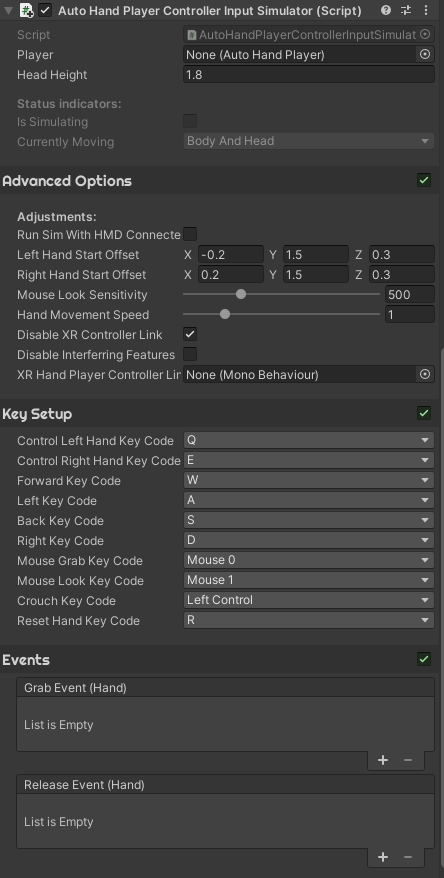
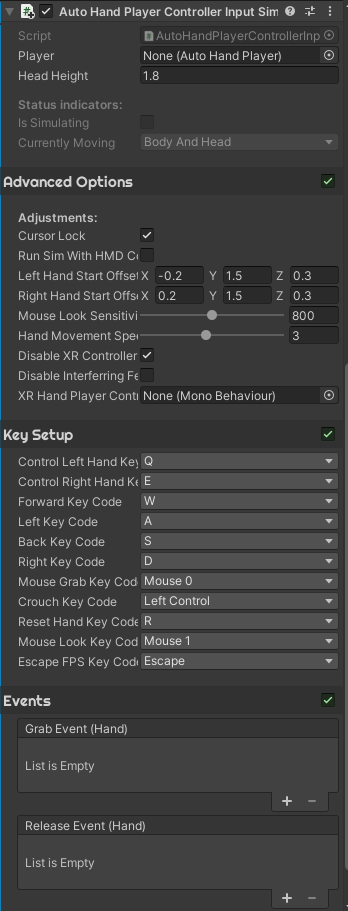
Changed default control mode
- Changed the default control mode to lock the cursor to the game view until either: ESC is pressed or the mouseLookKey is pressed
- Added an option to disable cursor lock.

diff --git a/Assets/AutoHand/Scripts/DebugTools/AutoHandPlayerControllerInputSimulator.cs b/Assets/AutoHand/Scripts/DebugTools/AutoHandPlayerControllerInputSimulator.cs
@@ -43,15 +43,18 @@ public class AutoHandPlayerControllerInputSimulator: MonoBehaviour
     public bool ignoreMe = false;
     [Header("Adjustments:")]
     [ShowIf("ignoreMe")]
-    public bool runSimWithHMDConnected = false;
+    [Tooltip("Locks cursor to screen, escape the screen by hitting ESC-key")]
+    public bool cursorLock = true;
+    [ShowIf("ignoreMe")]
+    public bool runWithHMDConnected = false;
     [ShowIf("ignoreMe")]
     public Vector3 leftHandStartOffset = new Vector3(-.2f, 1.5f, 0.3f), rightHandStartOffset = new Vector3(.2f, 1.5f, 0.3f);
     [ShowIf("ignoreMe")]
     [Range(100f, 1500f)]
-    public float mouseLookSensitivity = 500f;
+    public float mouseLookSensitivity = 800f;
     [ShowIf("ignoreMe")]
-    [Range(0.5f, 3f)]
-    public float handMovementSpeed = 1f;
+    [Range(0.5f, 6f)]
+    public float handMovementSpeed = 3f;
     [ShowIf("ignoreMe")]
     [Tooltip("This will ensure that the regular XRHandPlayerControllerLink is disabled " +
         "and stays disabled while using this simulator. " +
@@ -65,18 +68,24 @@ public class AutoHandPlayerControllerInputSimulator: MonoBehaviour
     [SerializeField] private MonoBehaviour xRHandPlayerControllerLink;
 
     [AutoToggleHeader("Key Setup")]
-    [SerializeField] bool ignorMe2;
-    [ShowIf("ignorMe2")]
+    [SerializeField] bool ignoreMe2;
+    [ShowIf("ignoreMe2")]
     public KeyCode controlLeftHandKeyCode = KeyCode.Q,
         controlRightHandKeyCode = KeyCode.E,
         forwardKeyCode = KeyCode.W,
         leftKeyCode = KeyCode.A,
         backKeyCode = KeyCode.S,
         rightKeyCode = KeyCode.D,
-        mouseGrabKeyCode = KeyCode.Mouse0,
-        mouseLookKeyCode = KeyCode.Mouse1,
-        crouchKeyCode = KeyCode.LeftControl,
-        resetHandKeyCode = KeyCode.R;
+        mouseGrabKeyCode = KeyCode.Mouse0;
+    [ShowIf("ignoreMe2")]
+    public KeyCode crouchKeyCode = KeyCode.LeftControl;
+    [ShowIf("ignoreMe2")]
+    public KeyCode resetHandKeyCode = KeyCode.R;
+    [ShowIf("ignoreMe2")]
+    public KeyCode mouseLookKeyCode = KeyCode.Mouse1;
+    [ShowIf("ignoreMe2")]
+    [EnableIf("cursorLock")]
+    public KeyCode escapeFPSKeyCode = KeyCode.Escape;
 
     [AutoToggleHeader("Events")]
     [SerializeField] bool ignorMe3;
@@ -90,13 +99,10 @@ public class AutoHandPlayerControllerInputSimulator: MonoBehaviour
     private Vector2 screenSize;
     private Vector2 previousMousePos = Vector2.zero;
     private bool firstFrame = true;
-    private bool controlLeftHand, controlRightHand, forwardKey, backKey, leftKey, rightKey, mouseGrabKey, mouseLookKey, crouchKey, resetHandKey, mouseLookKeyDown;
+    private bool controlLeftHand, controlRightHand, forwardKey, backKey, leftKey, rightKey, mouseGrabKey, mouseLookKey, crouchKey, resetHandKey, mouseLookKeyDown, escapeFPSKeyDown;
     private Vector2 movementInputs = Vector2.zero;
     private Vector2 mouseDeltaPosition = Vector2.zero;
     private Vector2 mouseScrollDelta = Vector2.zero;
-    // First person view
-    // rotation around the right/x axis and up/y axis, used in first person camera
-    private Vector2 mouseLookDirectionFPS = Vector2.zero; 
 
     private void Start()
     {
@@ -117,7 +123,7 @@ public class AutoHandPlayerControllerInputSimulator: MonoBehaviour
                 areHMDsConnected = true;
         }
 
-        if (!runSimWithHMDConnected && areHMDsConnected)
+        if (!runWithHMDConnected && areHMDsConnected)
             return;
         else
             isSimulating = true;
@@ -170,6 +176,8 @@ public class AutoHandPlayerControllerInputSimulator: MonoBehaviour
             player.allowPlatforms = false;
         }
 
+        
+
         // This is to ensure that the movement initializes properly after start
         // (The headFollower of Autohand doesn't start without an initial movement)
         Invoke("MoveHeadToStartTracking", 0.2f);
@@ -200,6 +208,8 @@ public class AutoHandPlayerControllerInputSimulator: MonoBehaviour
             return;
 
         GetInputs();
+
+        HandleFPSMode();
 
         currentlyMoving = DetermineWhatToMove();
 
@@ -248,12 +258,19 @@ public class AutoHandPlayerControllerInputSimulator: MonoBehaviour
 
         if (player == null)
             return;
+        
+        if (!Application.isFocused)
+            return;
 
         if (currentlyMoving == Move.bodyAndHead || currentlyMoving == Move.body)
         {
             if (disableXRControllerLink && xRHandPlayerControllerLink != null)
                 xRHandPlayerControllerLink.enabled = false;
             player.Move(movementInputs);
+        }
+        if(currentlyMoving == Move.bodyAndHead || currentlyMoving == Move.head)
+        {
+            HandleMouseHeadRotation();
         }
 
     }
@@ -279,11 +296,25 @@ public class AutoHandPlayerControllerInputSimulator: MonoBehaviour
         mouseScrollDelta = Input.mouseScrollDelta;
         mouseDeltaPosition = GetMouseScreenDeltaPosition();
         movementInputs = GetMovementControls();
+        escapeFPSKeyDown = Input.GetKeyDown(escapeFPSKeyCode);
 #endif
         // If only the new input system is available:
 #if ENABLE_INPUT_SYSTEM && !ENABLE_LEGACY_INPUT_MANAGER
         // ready for new input system implementation 
 #endif
+    }
+
+    private void HandleFPSMode()
+    {
+        if (cursorLock)
+        {
+            if (mouseGrabKey)
+                Cursor.lockState = CursorLockMode.Locked;
+            if (escapeFPSKeyDown || mouseLookKey)
+                Cursor.lockState = CursorLockMode.None;
+        }
+        else
+            Cursor.lockState = CursorLockMode.None;
     }
 
     Move DetermineWhatToMove()
@@ -292,7 +323,7 @@ public class AutoHandPlayerControllerInputSimulator: MonoBehaviour
 
         if (!(controlLeftHand | controlRightHand))
         {
-            if (mouseLookKey == true)
+            if (mouseLookKey == true || (cursorLock && Cursor.lockState == CursorLockMode.Locked))
             {
                 if (movementInputs != Vector2.zero)
                     currentlyMoving = Move.bodyAndHead;
@@ -323,7 +354,6 @@ public class AutoHandPlayerControllerInputSimulator: MonoBehaviour
             xRHandPlayerControllerLink.enabled = false;
         player.Move(movementInputs);
     }
-
 
     void HandleMouseHeadRotation()
     {
@@ -400,11 +430,13 @@ public class AutoHandPlayerControllerInputSimulator: MonoBehaviour
     {
         screenSize = new Vector2((float)Screen.currentResolution.height, (float)Screen.currentResolution.width);
 
-        var currentMouseInput = (Vector2)Input.mousePosition;
-        var mouseDiff = currentMouseInput - previousMousePos;
-        previousMousePos = currentMouseInput;
-        
-        return mouseDiff / screenSize;
+        float mouseX = Input.GetAxis("Mouse X");
+        float mouseY = -Input.GetAxis("Mouse Y");
+
+        var rotY = mouseX * mouseLookSensitivity * Time.deltaTime;
+        var rotX = mouseY * mouseLookSensitivity * Time.deltaTime;
+
+        return new Vector2(rotY, -rotX) / screenSize;
     }
 
     Vector2 GetMovementControls()

diff --git a/README.md b/README.md
@@ -47,6 +47,7 @@ Controls can be rebound to different key-bindings
 - HOLD Q + LMB -> grab with left
 - HOLD E + LMB -> grab with right
 - HOLD Q + HOLD E + LMB -> grab with both hands
+- ESC or RMB -> unlock cursor from gameview
 
 ## Settings
 
@@ -57,6 +58,10 @@ Controls can be rebound to different key-bindings
 ## Contributions
 
 New to old:
+- Updated default controls -> [MThogersen](https://github.com/MThogersen)
+    - Changed the default control mode to lock the cursor to the game view (FPS style control) until either: ESC is pressed or the LMB is pressed
+    - Original control mode (with no cursor lock) is made available through "Cursor Lock" option.
+---
 - Refactor and compatibility update -> [MThogersen](https://github.com/MThogersen)
     - Added support for OpenXR's Mock HMD
     - Exposed several settings for more customization
